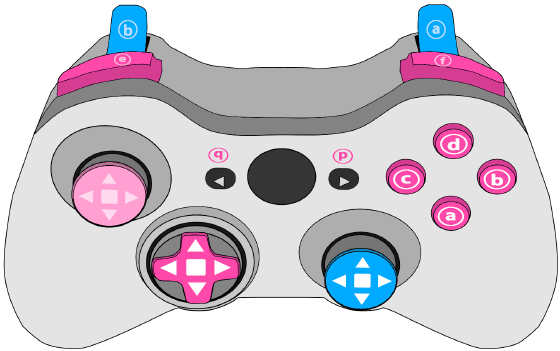
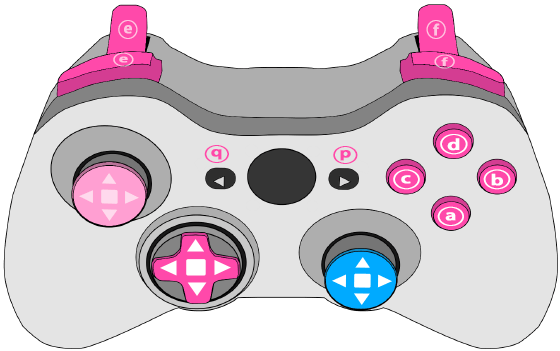
Update 45

diff --git a/doc/manual.md.html b/doc/manual.md.html
@@ -988,7 +988,7 @@ Left and right Joy-Cons work individually in horizontal mode. They cannot be joi
 Switch. The Switch Pro controller and the SNES and NES controllers work normally.
 
 On macOS, Xbox wired controllers require a free,
-[open source driver](https://github.com/d235j/360Controller-n). Xbox wireless controllers
+[open source driver](https://github.com/360Controller/360Controller/issues). Xbox wireless controllers
 do not work on Mac. Different controllers work with different browsers on macOS. For example,
 Xbox 360 controllers work well with Chrome and the Nintendo SNES controller works with Safari.
 
@@ -1027,20 +1027,28 @@ mapped correctly, just enter the pause menu on any game and select
 I've found that the easiest Bluetooth controller to pair on macOS is a
 Switch JoyCon.  Turn on Bluetooth on your Mac and open the Bluetooth
 preferences. Hold the controller horizontally and hold the tiny sync
-button
-[you have to take off the black wrist strap holder temporarily to access this button]. You'll
-see the controller appear on your Mac.  Click on its name and select
-"connect". When you want to re-pair the controller with your Switch,
-just slide it back onto the Switch and it will sync.
+button [you have to take off the black wrist strap holder temporarily
+to access this button]. You'll see the controller appear on your Mac.
+Click on its name and select "connect". When you want to re-pair the 
+controller with your Switch, just slide it back onto the Switch and 
+it will sync.
 
 8BitDo controllers seem to work very reliably on Windows and Linux
 but are inconsistent on macOS.
 
-The [X-Arcade](https://shop.xgaming.com/) controllers work with quadplay.
-On Windows with a recent (2020 or later, or with the Tri-Mode PCB upgrade) X-Arcade controller,
-set XInput Mode 4 with the switch on the back. The mapping is below. For 
-other operating systems or older controllers, use keyboard mode and program
-the buttons to match the quadplay keyboard controls.
+The [X-Arcade](https://shop.xgaming.com/) controllers work with
+quadplay.  If you have a recent (2020 or later, or with the Tri-Mode
+PCB upgrade) X-Arcade controller, set XInput Mode 4 with the switch on
+the
+back. [Install the latest firmware](https://support.xgaming.com/support/solutions/articles/12000051593-x-arcade-tri-mode-firmware-update-download-instructions),
+version 19.4 or later. On macOS, also install the open source
+[Xbox360 controller](https://github.com/360Controller/360Controller/releases)
+driver. The Chrome and Edge browsers provide the most reliable
+mapping. Safari and Firefox have inconsistent results.
+
+The X-arcade default mapping is below. For other operating systems, browsers, or
+older controllers, just use keyboard mode and program the buttons to match
+the quadplay keyboard controls.
 
 ![On Windows, put your X-Arcade in X-input mode 4 and it will automatically provide this mapping.](xarcade-mapping.png style="border:none; image-rendering:auto" width=50%)
 
@@ -4234,21 +4242,21 @@ Raw Device Access
          table.nested th {border-bottom: 1px solid} </style>
   <table class="nested">
     <tr><th> Parameters                      </th><th> Effect </th></tr>
-    <tr><td> `"start_GIF_recording"`         </td><td> Begin GIF recording.</td></tr>
-    <tr><td> `"stop_GIF_recording"`          </td><td> End GIF recording. When the compression completes, the GIF will appear in a new tab.</td></tr>
-    <tr><td> `"start_preview_recording"`     </td><td> Begin preview video recording. There is no "stop" command because this terminates automatically after a set time.</td></tr>
-    <tr><td> `"take_screenshot"`             </td><td> Take a screenshot and download it to the local disk. </td></tr>
-    <tr><td> `"take_label_image"`            </tr><td> Capture the center of the image and save it to disk, overwriting the label128 and label64 images (only works when running in the IDE on an editable project). </td></tr>
-    <tr><td> `"set_pad_type", index, "type"` </td><td> Set `gamepad_array[index].type` and the corresponding prompts. There is no "get" version because you can read the property directly from the gamepad object.</td></tr>
-    <tr><td> `"get_analog_axes", index`      </td><td> Return an `xy()` of the analog axis values for `gamepad_array[index]`, without D-pad snapping.
+    <tr valign=top><td> `"start_GIF_recording"`         </td><td> Begin GIF recording.</td></tr>
+    <tr valign=top><td> `"stop_GIF_recording"`          </td><td> End GIF recording. When the compression completes, the GIF will appear in a new tab.</td></tr>
+    <tr valign=top><td> `"start_preview_recording"`     </td><td> Begin preview video recording. There is no "stop" command because this terminates automatically after a set time.</td></tr>
+    <tr valign=top><td> `"take_screenshot"`             </td><td> Take a screenshot and download it to the local disk. </td></tr>
+    <tr valign=top><td> `"take_label_image"`            </td><td> Capture the center of the image and save it to disk, overwriting the label128 and label64 images (only works when running in the IDE on an editable project). </td></tr>
+    <tr valign=top><td> `"set_pad_type", index, "type"` </td><td> Set `gamepad_array[index].type` and the corresponding prompts. There is no "get" version because you can read the property directly from the gamepad object.</td></tr>
+    <tr valign=top><td> `"get_analog_axes", index`      </td><td> Return an `xy()` of the analog axis values for `gamepad_array[index]`, without D-pad snapping.
                                                        Needed for accessing Atari paddles, car pedals, steering wheels, and flight stick throttles in
                                                        a meaningful way.</td></tr>
-    <tr><td> `"get_mouse_state"`             </td><td> Return `{x:number, y:number, dx:number, dy:number, xy:xy(...), dxy:xy(...), button_array:[...]}` for the current mouse position and buttons. Each element of
+    <tr valign=top><td> `"get_mouse_state"`             </td><td> Return `{x:number, y:number, dx:number, dy:number, xy:xy(...), dxy:xy(...), button_array:[...]}` for the current mouse position and buttons. Each element of
                                                        `button_array` is 0 or 1. There are at least two buttons, but may be more.</td></tr>
-    <tr><td> `"set_debug_flag", flagname, bool`</td><td> Set the enabled state of an IDE debugging flag. The flagnames are 
+    <tr valign=top><td> `"set_debug_flag", flagname, bool`</td><td> Set the enabled state of an IDE debugging flag. The flagnames are 
                                                        `"entity_bounds"`, `"assert"`, `"debug_print"`, 
                                                         `"debug_watch"`, `"physics"`.</td></tr>
-    <tr><td> `"get_debug_flag", flagname`    </td><td> Return the state of an IDE debugging flag.</td></tr>
+    <tr valign=top><td> `"get_debug_flag", flagname`    </td><td> Return the state of an IDE debugging flag.</td></tr>
   </table>
 
 
@@ -7168,7 +7176,7 @@ Change Log
 
 Changes for both the specification and implementation in each release.
 
-2020 July TBD: Beta update 45
+2020 July 3: Beta update 45
 
 - Made function definition lines, `todo()`, and `assert()` 
   free versus the total source statement limit
@@ -7181,6 +7189,9 @@ Changes for both the specification and implementation in each release.
   they are mutable
 - Made `clone()` and `deep_clone()` work properly on assets and constants
 - The `pan` argument to `play_sound()` can now be an `xy()` value for positional sound
+- Updated X-Arcade instructions to reflect the latest 9.14 firmware
+- Changed physical modern console controller mapping so that triggers are aliases for
+  shoulders (previously P1's triggers were P2's A and B buttons)
 - Added `map.spritesheet` convenience helper
 - Added support for arbitrary properties on sprites in the `sprite.json`
 - Added `kenney-cartography-64x64.sprite.json`
@@ -7189,6 +7200,8 @@ Changes for both the specification and implementation in each release.
 - Added `explode-12.sound.json`
 - Added `spawn_particles_from_map_ws_coord()` to `scripts/particle.pyxl`
 - Optimized in-IDE game start time
+- The `export.py` script now ignores temporary and backup files
+- The `export.py` script now makes all output files world readable
 - Fixed a slight blue bias in alpha blending
 - Fixed alpha blending on sprites that are transposed at load
 - Fixed map coordinate documentation to match the practice, which is that
@@ -7200,6 +7213,7 @@ Changes for both the specification and implementation in each release.
 - Fixed constant references to assets
 - Fixed RPG demo crash
 - Fixed vehicle demo button prompts
+
 
 2020 June 23: Beta update 44
 

diff --git a/console/quadplay-host.js b/console/quadplay-host.js
@@ -470,7 +470,9 @@ const gamepadButtonRemap = {
 
     // Nintendo Switch SNES official controller under safari
     '57e-2017-SNES Controller': [0, 1, 2, 3, 4, 5, 6, 7, 8, 9, 10, 11, 16, 17, 18, 19, 12, 13, 14, 15],
-    'SNES Controller (Vendor: 057e Product: 2017)': [0, 1, 2, 3, 4, 5, 6, 7, 8, 9, 10, 11, 16, 17, 18, 19, 12, 13, 14, 15]
+    'SNES Controller (Vendor: 057e Product: 2017)': [0, 1, 2, 3, 4, 5, 6, 7, 8, 9, 10, 11, 16, 17, 18, 19, 12, 13, 14, 15],
+
+    // This is how the X-Arcade controller reports under macOS
 };
 
 const gamepadAxisRemap = {
@@ -926,10 +928,8 @@ function updateInput() {
     // A, B, C, D, E, F, _P, Q
     const buttonIndex = [0, 1, 2, 3, 4, 5, 9, 8];
     
-    // Aliases on console game controller using stick buttons
-    // and trigger + shoulder buttons. These are read from 
-    // gamepad_array[2] and applied to gamepad_array[0]
-    const altButtonIndex = [7, 6, undefined, undefined, undefined, undefined, undefined, undefined];
+    // Aliases on console game controller
+    const altButtonIndex = [undefined, undefined, undefined, undefined, 6, 7, undefined, undefined];
 
     // Also processes input
     const gamepadArray = getIdealGamepads();
@@ -941,8 +941,8 @@ function updateInput() {
 
         // Have player 0 physical alt controls set player 1 virtual buttons only
         // if there is no second controller physically present
-	    const altRealGamepad = ((player === 1) && ! realGamepad) ? gamepadArray[0] : undefined,
-	        altPrevRealGamepad = ((player === 1) && ! realGamepad) ? prevRealGamepadState[0] : undefined;
+	const altRealGamepad = ((player === 1) && ! realGamepad) ? gamepadArray[0] : undefined,
+	      altPrevRealGamepad = ((player === 1) && ! realGamepad) ? prevRealGamepadState[0] : undefined;
 
         if (realGamepad && (realGamepad.id !== pad._id)) {
             // The gamepad just connected or changed. Update the control scheme.
@@ -1023,10 +1023,9 @@ function updateInput() {
             }
 
             const i = buttonIndex[b], j = altButtonIndex[b];
-            const isPressed  = (realGamepad && realGamepad.buttons[i]) || (altRealGamepad && altRealGamepad.buttons[j]);
+            const isPressed  = realGamepad && (realGamepad.buttons[i] || realGamepad.buttons[j]);
 	    
-	        const wasPressed = (prevRealGamepad && prevRealGamepad.buttons[i]) ||
-		               (altPrevRealGamepad && altPrevRealGamepad.buttons[j]);
+	    const wasPressed = prevRealGamepad && (prevRealGamepad.buttons[i] || prevRealGamepad.buttons[j]);
 	    
             if (isPressed) { pad[prefix + button] = 1; }
 	    

diff --git a/console/quadplay-ide.js b/console/quadplay-ide.js
@@ -3,7 +3,7 @@
 
 // Set to false when working on quadplay itself
 const deployed = true;
-const version  = '2020.07.02.00'
+const version  = '2020.07.03.11'
 
 // Set to true to allow editing of quad://example/ files when developing quadplay
 const ALLOW_EDITING_EXAMPLES = ! deployed;

diff --git a/tools/export.py b/tools/export.py
@@ -155,8 +155,12 @@ def export(args):
       # Do this before copying individual dependencies because
       # shutil.copytree can't take the dirs_exist_ok=True parameter
       # until Python 3.8 and the dependencies create the console dir
-      if args.dry_run: print('cp -r ' + os.path.join(args.quadpath, 'console') + ' ' + os.path.join(out_path, ''))
-      else: shutil.copytree(os.path.join(args.quadpath, 'console'), os.path.join(out_path, 'console'))
+      if args.dry_run:
+         print('cp -r ' + os.path.join(args.quadpath, 'console') + ' ' + os.path.join(out_path, ''))
+      else:
+         shutil.copytree(os.path.join(args.quadpath, 'console'),
+                         os.path.join(out_path, 'console'),
+                         ignore = shutil.ignore_patterns('.DS_Store', '*~', '#*', '*.pyc'))
       
       generate_standalone(args, out_path, out_url, game_title)
    else:
@@ -178,6 +182,17 @@ def export(args):
 
       if args.dry_run: print('cp ' + src + ' ' + dst)
       else: shutil.copy2(src, dst)
+
+      
+   # Make everything world-readable
+   print('------------------------' + out_path)
+   if args.dry_run:
+      print('chmod -R uga+r ' + os.path.join(out_path, '*'))
+   else:
+      for root, dirs, files in os.walk(out_path):
+         for name in files + dirs:
+            os.chmod(os.path.join(root, name), stat.S_IRUSR | stat.S_IROTH | stat.S_IRGRP)
+
          
    if args.zipfile:
       # Construct the zipfile
